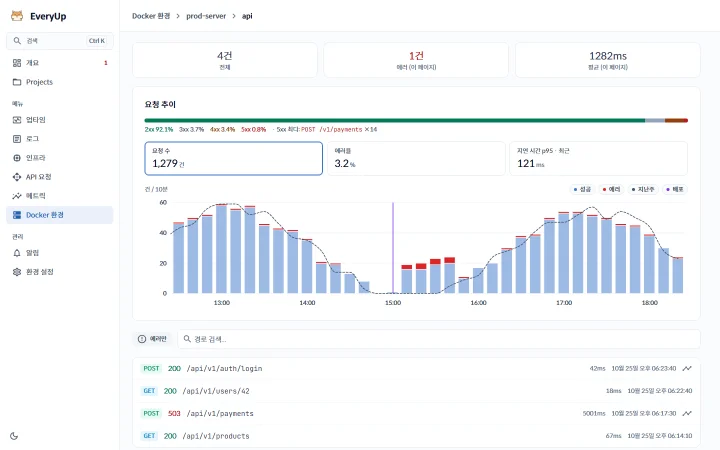
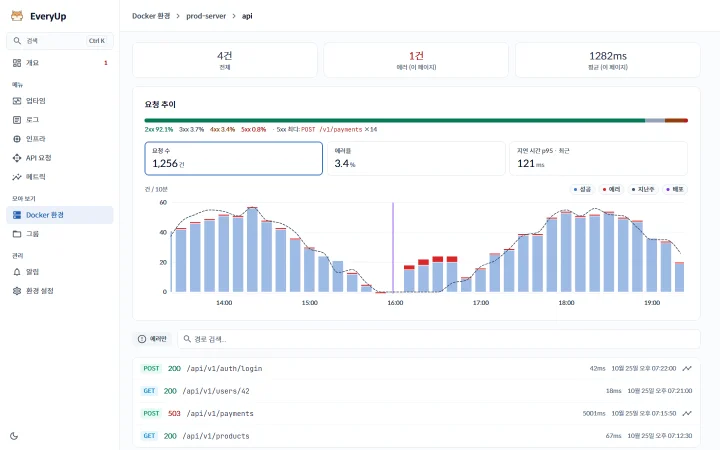
feat(web): Docker environments and groups get their own nav section
Projects is renamed to 그룹 (Group) in product language and moves with
Docker 환경 into a new 모아 보기 sidebar section after the capability
menus. Both look at several capabilities as one unit: a Docker
environment shows everything one Collector collects, a group collects
separately registered targets like a folder. Routes, API paths and
projectId stay as they are (ADR 0008).

UI strings, error messages, CONTEXT.md, Korean and English guides,
READMEs, e2e selectors and screenshots follow the new name.

diff --git a/web/frontend/src/pages/projects/ProjectsPage.tsx b/web/frontend/src/pages/projects/ProjectsPage.tsx
@@ -45,7 +45,7 @@ export function ProjectDialog({ project, onClose, onSave }: {
       className={`m-auto w-full max-w-md overflow-hidden rounded-xl border border-ui-border bg-bg-surface shadow-lg ${SCRIM_MODAL_DIALOG}`}
     >
       <form onSubmit={submit}>
-        <div className="border-b border-ui-border px-6 py-4"><h2 id="project-dialog-title" className="type-card-title text-text-base">{project ? 'Project 수정' : 'Project 추가'}</h2></div>
+        <div className="border-b border-ui-border px-6 py-4"><h2 id="project-dialog-title" className="type-card-title text-text-base">{project ? '그룹 수정' : '그룹 추가'}</h2></div>
         <div className="space-y-4 p-6">
           <label className="block space-y-1.5" htmlFor="project-name"><span className="type-label text-text-secondary">이름</span><Input id="project-name" required value={name} onChange={event => setName(event.target.value)} placeholder="예: Production" /></label>
           <label className="block space-y-1.5" htmlFor="project-description"><span className="type-label text-text-secondary">설명</span><Input id="project-description" value={description} onChange={event => setDescription(event.target.value)} placeholder="선택 사항" /></label>
@@ -92,7 +92,7 @@ function ProjectCard({ project, returnTo, agents, monitors, directServices, infr
     <article className="rounded-xl border border-ui-border bg-bg-surface p-4">
       <ResourceCardHeader
         title={<h2 className="truncate type-card-title text-text-base"><Link to={`/projects/${project.id}`} state={{ returnTo }} className="hover:text-action">{project.name}</Link></h2>}
-        status={<div className="flex gap-1"><IconButton icon="edit" label="Project 수정" size="sm" onClick={onEdit} /><IconButton icon="delete_outline" label="Project 삭제" size="sm" tone="danger" onClick={onDelete} /></div>}
+        status={<div className="flex gap-1"><IconButton icon="edit" label="그룹 수정" size="sm" onClick={onEdit} /><IconButton icon="delete_outline" label="그룹 삭제" size="sm" tone="danger" onClick={onDelete} /></div>}
       />
       <p className="mt-3 type-body text-text-muted">{project.description || '설명이 없습니다'}</p>
       <div className="mt-5 grid grid-cols-2 gap-3 lg:grid-cols-4">
@@ -168,16 +168,16 @@ export function ProjectsPage() {
   const renderProject = (project: Project) => <ProjectCard key={project.id} project={project} returnTo={returnTo} agents={agents.filter(agent => agent.projectId === project.id)} monitors={monitors.filter(monitor => monitor.projectId === project.id)} directServices={directServices.filter(service => service.projectId === project.id)} infrastructureResources={infrastructureResources.filter(resource => resource.projectId === project.id)} unassignedAgents={unassignedAgents} unassignedMonitors={unassignedMonitors} unassignedDirect={unassignedDirect} unassignedInfrastructure={unassignedInfrastructure} onEdit={() => setEditing(project)} onDelete={() => setDeleting(project)} onAssignAgent={id => void mutate(() => api.assignAgent(project.id, id))} onUnassignAgent={id => void mutate(() => api.unassignAgent(project.id, id))} onAssignMonitor={id => void mutate(() => api.assignMonitor(project.id, id))} onUnassignMonitor={id => void mutate(() => api.unassignMonitor(project.id, id))} onAssignDirect={id => void mutate(() => updateDirectProject(id, project.id))} onUnassignDirect={id => void mutate(() => updateDirectProject(id))} onAssignInfrastructure={id => void mutate(() => updateInfrastructureProject(id, project.id))} onUnassignInfrastructure={id => void mutate(() => updateInfrastructureProject(id))} />;
 
   return <div>
-    <PageHeader title="Projects" subtitle="같이 운영하는 Docker 환경, 업타임 모니터, 애플리케이션과 서버를 한곳에 묶어 상태를 확인합니다."><Button onClick={() => setEditing(null)}><MaterialIcon name="add" />추가</Button></PageHeader>
+    <PageHeader title="그룹" subtitle="같이 운영하는 Docker 환경, 업타임 모니터, 애플리케이션과 서버를 한곳에 묶어 상태를 확인합니다."><Button onClick={() => setEditing(null)}><MaterialIcon name="add" />추가</Button></PageHeader>
     <div className="mb-5 flex"><ListViewToggle view={view} onChange={setView} /></div>
-    {loading ? <div className="grid grid-cols-1 gap-4 md:grid-cols-2">{[0, 1].map(item => <div key={item} className="h-72 animate-pulse rounded-xl border border-ui-border bg-bg-surface" />)}</div> : error ? <EmptyState icon="error_outline" title="Project를 불러오지 못했습니다" description={error} action={{ label: '다시 시도', onClick: () => void load() }} /> : projects.length === 0 ? <EmptyState icon="folder_open" title="아직 Project가 없습니다" description="필요할 때 모니터링 대상을 묶어 보세요." action={{ label: '추가', onClick: () => setEditing(null) }} /> : view === 'grid' ? <ResourceTable rows={projects} rowKey={project => project.id} ariaLabel="Projects 그리드"
+    {loading ? <div className="grid grid-cols-1 gap-4 md:grid-cols-2">{[0, 1].map(item => <div key={item} className="h-72 animate-pulse rounded-xl border border-ui-border bg-bg-surface" />)}</div> : error ? <EmptyState icon="error_outline" title="그룹을 불러오지 못했습니다" description={error} action={{ label: '다시 시도', onClick: () => void load() }} /> : projects.length === 0 ? <EmptyState icon="folder_open" title="아직 그룹이 없습니다" description="필요할 때 모니터링 대상을 묶어 보세요." action={{ label: '추가', onClick: () => setEditing(null) }} /> : view === 'grid' ? <ResourceTable rows={projects} rowKey={project => project.id} ariaLabel="그룹 그리드"
       renderDetails={project => expandedProject === project.id ? renderProject(project) : null}
       columns={[
-        { key: 'name', label: 'Project', render: project => <><Link to={`/projects/${project.id}`} state={{ returnTo }} data-row-link className="block truncate font-medium text-action">{project.name}</Link><p className="mt-1 line-clamp-2 break-words type-caption text-text-muted">{project.description || '설명 없음'}</p><p className="mt-2 type-caption text-text-muted md:hidden">Docker {agents.filter(row => row.projectId === project.id).length} · 업타임 {monitors.filter(row => row.projectId === project.id).length} · 서비스 {directServices.filter(row => row.projectId === project.id).length} · Collector {infrastructureResources.filter(row => row.projectId === project.id).length}</p></> },
+        { key: 'name', label: '그룹', render: project => <><Link to={`/projects/${project.id}`} state={{ returnTo }} data-row-link className="block truncate font-medium text-action">{project.name}</Link><p className="mt-1 line-clamp-2 break-words type-caption text-text-muted">{project.description || '설명 없음'}</p><p className="mt-2 type-caption text-text-muted md:hidden">Docker {agents.filter(row => row.projectId === project.id).length} · 업타임 {monitors.filter(row => row.projectId === project.id).length} · 서비스 {directServices.filter(row => row.projectId === project.id).length} · Collector {infrastructureResources.filter(row => row.projectId === project.id).length}</p></> },
         ...([{ key: 'agents', label: 'Docker 환경', rows: agents }, { key: 'monitors', label: '업타임', rows: monitors }, { key: 'services', label: '직접 서비스', rows: directServices }, { key: 'infra', label: 'Collector', rows: infrastructureResources }]).map(({ key, label, rows }) => ({ key, label, className: 'hidden w-28 md:table-cell', align: 'right' as const, render: (project: Project) => rows.filter(row => row.projectId === project.id).length })),
         { key: 'actions', label: '작업', className: 'w-32', render: project => <Button variant="secondary" size="sm" className="min-h-11" aria-label={`${project.name} 구성 관리`} aria-expanded={expandedProject === project.id} onClick={() => setExpandedProject(expandedProject === project.id ? null : project.id)}>구성 관리</Button> },
       ]} /> : <div className="grid grid-cols-1 gap-4 md:grid-cols-2">{projects.map(renderProject)}</div>}
     {editing !== undefined && <ProjectDialog project={editing} onClose={() => setEditing(undefined)} onSave={saveProject} />}
-    <ConfirmDialog isOpen={Boolean(deleting)} onClose={() => setDeleting(null)} onConfirm={() => void deleteProject()} title="Project를 삭제할까요?" message="배정된 Docker 환경, 업타임 모니터, 직접 서비스와 Collector는 삭제되지 않고 미분류로 남습니다." confirmLabel="삭제" isProcessing={deletingProject} />
+    <ConfirmDialog isOpen={Boolean(deleting)} onClose={() => setDeleting(null)} onConfirm={() => void deleteProject()} title="그룹을 삭제할까요?" message="배정된 Docker 환경, 업타임 모니터, 직접 서비스와 Collector는 삭제되지 않고 미분류로 남습니다." confirmLabel="삭제" isProcessing={deletingProject} />
   </div>;
 }

diff --git a/web/frontend/src/pages/projects/ProjectOverviewPage.tsx b/web/frontend/src/pages/projects/ProjectOverviewPage.tsx
@@ -120,8 +120,8 @@ export function ProjectOverviewPage() {
   const totalTargets = data.agents.length + data.monitors.length + data.observedServices.length + data.infrastructure.length;
 
   if (loading) return <div className="h-64 animate-pulse rounded-xl border border-ui-border bg-bg-surface" />;
-  if (error) return <EmptyState icon="sync_problem" title="Project를 불러오지 못했습니다" description={error} action={{ label: '다시 시도', onClick: () => void load() }} />;
-  if (!data.project) return <EmptyState icon="folder_open" title="Project를 찾을 수 없습니다" action={{ label: 'Projects', to: '/projects' }} />;
+  if (error) return <EmptyState icon="sync_problem" title="그룹을 불러오지 못했습니다" description={error} action={{ label: '다시 시도', onClick: () => void load() }} />;
+  if (!data.project) return <EmptyState icon="folder_open" title="그룹을 찾을 수 없습니다" action={{ label: '그룹', to: '/projects' }} />;
 
   const project = data.project;
   const deleteProject = async () => {
@@ -161,11 +161,11 @@ export function ProjectOverviewPage() {
 
       {failedSources.length > 0 && <section className="flex flex-col gap-3 rounded-xl border border-ui-border bg-bg-surface p-4 sm:flex-row sm:items-center sm:justify-between" role="status"><div className="flex items-start gap-3"><MaterialIcon size={20} name="sync_problem" className="mt-0.5 text-status-warn" /><div><p className="type-label text-text-base">일부 모니터링 정보를 불러오지 못했습니다</p><p className="mt-0.5 type-body text-text-muted">{failedSources.join(', ')} 정보를 제외한 결과입니다.</p></div></div><Button variant="secondary" size="sm" onClick={() => void load()}>다시 시도</Button></section>}
 
-      {totalTargets === 0 ? <section className="rounded-xl border border-ui-border bg-bg-surface"><EmptyState icon="folder_open" title="아직 배정된 대상이 없습니다" description="Project 관리 화면에서 환경과 모니터링 대상을 배정하세요." action={{ label: 'Project 관리', to: '/projects' }} /></section> : (
+      {totalTargets === 0 ? <section className="rounded-xl border border-ui-border bg-bg-surface"><EmptyState icon="folder_open" title="아직 배정된 대상이 없습니다" description="그룹 관리 화면에서 환경과 모니터링 대상을 배정하세요." action={{ label: '그룹 관리', to: '/projects' }} /></section> : (
         <section>
           <div className="mb-3 flex flex-wrap items-center gap-3"><div><h2 className="type-card-title text-text-base">대상</h2><p className="mt-0.5 type-body text-text-muted">장애를 먼저, 수집 지연을 그다음에 보여줍니다.</p></div><ListViewToggle view={view} onChange={setView} /></div>
           {view === 'card' ? <div className="grid gap-4 md:grid-cols-2 xl:grid-cols-3">{members.map(({ key, ...member }) => <div key={key} className="overflow-hidden rounded-xl border border-ui-border bg-bg-surface"><MemberLink {...member} returnTo={returnTo} /></div>)}</div> :
-            <ResourceTable rows={members} rowKey={row => row.key} ariaLabel="Project 구성 그리드" columns={[
+            <ResourceTable rows={members} rowKey={row => row.key} ariaLabel="그룹 구성 그리드" columns={[
               { key: 'name', label: '대상', render: row => <><Link to={row.to} state={{ returnTo }} data-row-link className="block truncate font-medium text-action">{row.name}</Link><p className="mt-1 break-words type-caption text-text-muted md:hidden">{row.detail}</p></> },
               { key: 'detail', label: '현황', className: 'hidden md:table-cell', render: row => <span className="text-text-muted">{row.detail}</span> },
             ]} />}
@@ -173,7 +173,7 @@ export function ProjectOverviewPage() {
       )}
 
       {editing && <ProjectDialog project={project} onClose={() => setEditing(false)} onSave={async input => { await api.updateProject(project.id, input); await load(); }} />}
-      <ConfirmDialog isOpen={deleting} onClose={() => setDeleting(false)} onConfirm={() => void deleteProject()} title="Project를 삭제할까요?" message="배정된 Docker 환경, 업타임 모니터, 직접 서비스와 Collector는 삭제되지 않고 미분류로 남습니다." confirmLabel="삭제" isProcessing={deletingProject} />
+      <ConfirmDialog isOpen={deleting} onClose={() => setDeleting(false)} onConfirm={() => void deleteProject()} title="그룹을 삭제할까요?" message="배정된 Docker 환경, 업타임 모니터, 직접 서비스와 Collector는 삭제되지 않고 미분류로 남습니다." confirmLabel="삭제" isProcessing={deletingProject} />
     </div>
   );
 }

diff --git a/web/frontend/e2e/list-views.spec.ts b/web/frontend/e2e/list-views.spec.ts
@@ -1,7 +1,7 @@
 import { expect, test, type Locator } from '@playwright/test';
 
 const menus = [
-  ['projects', 'Projects', 'Projects 그리드'],
+  ['projects', '그룹', '그룹 그리드'],
   ['environments', 'Docker 환경', 'Docker 환경 그리드'],
   ['logs', '로그', '로그 서비스 그리드'],
   ['infrastructure', '인프라', '인프라 대상 그리드'],
@@ -11,7 +11,7 @@ const menus = [
   ['alerts?tab=rules', '알림', '알림 규칙 그리드'],
   ['alerts?tab=history', '알림', '알림 로그 그리드'],
   ['agents/agent_demo_01', 'prod-server', 'Docker 서비스 그리드'],
-  ['projects/project_mock_production', 'Production', 'Project 구성 그리드'],
+  ['projects/project_mock_production', 'Production', '그룹 구성 그리드'],
 ] as const;
 
 const hrefs = (scope: Locator) => scope.getByRole('link').evaluateAll(elements => [...new Set(elements.map(element => element.getAttribute('href') ?? ''))]);
@@ -75,18 +75,18 @@ test('Docker search and connect cleanup retain the chosen view and pending actio
   await expect(page.getByRole('table', { name: 'Docker 환경 그리드' })).toContainText('staging-api');
 });
 
-test('Project grid exposes editing, membership controls and deletion without changing views', async ({ page }) => {
+test('Group grid exposes editing, membership controls and deletion without changing views', async ({ page }) => {
   await page.goto('./projects');
   await page.getByRole('button', { name: 'Production 구성 관리', exact: true }).click();
   const card = page.getByRole('article').filter({ has: page.getByRole('heading', { name: 'Production', exact: true }) });
   await expect(card.getByRole('button', { name: 'Docker 환경 해제', exact: true }).first()).toBeVisible();
-  await card.getByRole('button', { name: 'Project 수정', exact: true }).click();
-  await expect(page.getByRole('dialog', { name: 'Project 수정', exact: true })).toBeVisible();
+  await card.getByRole('button', { name: '그룹 수정', exact: true }).click();
+  await expect(page.getByRole('dialog', { name: '그룹 수정', exact: true })).toBeVisible();
   await page.getByRole('dialog').getByRole('button', { name: '취소', exact: true }).click();
-  await card.getByRole('button', { name: 'Project 삭제', exact: true }).click();
-  await expect(page.getByRole('dialog', { name: 'Project를 삭제할까요?', exact: true })).toBeVisible();
+  await card.getByRole('button', { name: '그룹 삭제', exact: true }).click();
+  await expect(page.getByRole('dialog', { name: '그룹을 삭제할까요?', exact: true })).toBeVisible();
   await page.getByRole('dialog').getByRole('button', { name: '취소', exact: true }).click();
-  await expect(page.getByRole('table', { name: 'Projects 그리드', exact: true })).toBeVisible();
+  await expect(page.getByRole('table', { name: '그룹 그리드', exact: true })).toBeVisible();
 });
 
 test('alert target and local search stay intact while switching views', async ({ page }) => {

diff --git a/web/frontend/src/components/layout/navSections.ts b/web/frontend/src/components/layout/navSections.ts
@@ -14,7 +14,7 @@ export interface NavTarget {
 
 export interface NavSection extends NavTarget {
   /** 사이드바 그룹 헤더. 없으면 맨 위 그룹 */
-  group?: '메뉴' | '관리';
+  group?: '메뉴' | '모아 보기' | '관리';
   /** 사이드바가 없는 폭(`lg` 미만)에서 들어가는 곳 — 하단 내비 또는 더보기 */
   mobile: 'bottom' | 'more';
   /** 더보기 카드 설명 */
@@ -25,14 +25,15 @@ export interface NavSection extends NavTarget {
 
 export const NAV_SECTIONS: NavSection[] = [
   { to: '/', label: '개요', icon: 'dashboard', mobile: 'bottom' },
-  { to: '/projects', label: 'Projects', icon: 'folder_open', mobile: 'bottom' },
   { to: '/uptime', label: '업타임', icon: 'monitor_heart', group: '메뉴', mobile: 'more', description: '서비스 응답과 장애 대상을 확인합니다.' },
   { to: '/logs', label: '로그', icon: 'article', group: '메뉴', mobile: 'more', description: '서비스별 오류·경고를 보고 로그를 검색합니다.' },
   { to: '/infrastructure', label: '인프라', icon: 'memory', group: '메뉴', mobile: 'more', description: '서버의 CPU, 메모리, 디스크 상태를 확인합니다.' },
   { to: '/api', label: 'API 요청', icon: 'api', group: '메뉴', mobile: 'more', description: '요청 상태와 오류를 확인합니다.' },
   { to: '/metrics', label: '메트릭', icon: 'monitoring', group: '메뉴', mobile: 'more', description: 'OpenTelemetry 메트릭을 확인합니다.' },
-  // Capability Menu 뒤 — 메뉴는 직접 설정한 대상만, Docker 데이터는 이 화면에서만 본다(ADR 0007).
-  { to: '/environments', label: 'Docker 환경', icon: 'dns', group: '메뉴', mobile: 'more', aliases: ['/agents', '/services'], description: 'Collector 연결과 발견된 서비스를 관리합니다.' },
+  // 모아 보기 — 기능별 메뉴와 달리 여러 기능을 한 단위로 본다. Docker 환경은 한 서버의 수집 전체를,
+  // 그룹은 따로 등록한 대상을 묶은 것을 보여 준다(ADR 0007·0008).
+  { to: '/environments', label: 'Docker 환경', icon: 'dns', group: '모아 보기', mobile: 'more', aliases: ['/agents', '/services'], description: 'Collector 연결과 발견된 서비스를 관리합니다.' },
+  { to: '/projects', label: '그룹', icon: 'folder_open', group: '모아 보기', mobile: 'bottom' },
   { to: '/alerts', label: '알림', icon: 'notifications', group: '관리', mobile: 'bottom' },
   { to: '/settings', label: '환경 설정', icon: 'settings', group: '관리', mobile: 'more', description: 'EveryUp 환경을 설정합니다.' },
 ];

diff --git a/web/frontend/e2e/grid-navigation.spec.ts b/web/frontend/e2e/grid-navigation.spec.ts
@@ -1,7 +1,7 @@
 import { expect, test, type Locator } from '@playwright/test';
 
 const menus = [
-  ['projects', 'Projects 그리드'],
+  ['projects', '그룹 그리드'],
   ['environments', 'Docker 환경 그리드'],
   ['uptime', '업타임 그리드'],
   ['logs', '로그 서비스 그리드'],
@@ -9,7 +9,7 @@ const menus = [
   ['api', 'API 대상 그리드'],
   ['metrics', '메트릭 서비스 그리드'],
   ['agents/agent_demo_01', 'Docker 서비스 그리드'],
-  ['projects/project_mock_production', 'Project 구성 그리드'],
+  ['projects/project_mock_production', '그룹 구성 그리드'],
 ] as const;
 
 async function blankCorner(row: Locator) {
@@ -45,7 +45,7 @@ for (const mode of ['modifier', 'middle'] as const) {
   test(`${mode} click on row whitespace opens the actual detail in a new tab`, async ({ page }) => {
     await page.goto('./projects');
     const listUrl = page.url();
-    const table = page.getByRole('table', { name: 'Projects 그리드', exact: true });
+    const table = page.getByRole('table', { name: '그룹 그리드', exact: true });
     const row = table.getByRole('row').filter({ has: page.getByRole('link') }).first();
     const link = row.getByRole('link').first();
     const destination = new URL((await link.getAttribute('href'))!, listUrl).href;

diff --git a/web/frontend/src/features/telemetry/components/DirectConnectionMeta.tsx b/web/frontend/src/features/telemetry/components/DirectConnectionMeta.tsx
@@ -1,7 +1,7 @@
 import { Button, DetailMeta, MaterialIcon, Select, StatusLight } from '../../../components/common';
 import type { Project } from '../../../services/api';
 
-// 직접 연결(Logs·Metrics·API·Collector) 상세의 연결 메타데이터. 수집 키·마지막 수집·Project는
+// 직접 연결(Logs·Metrics·API·Collector) 상세의 연결 메타데이터. 수집 키·마지막 수집·그룹은
 // 대상의 속성이지 본문이 아니라서 카드가 아니라 제목 아래 DetailMeta로 둔다.
 interface DirectConnectionMetaProps {
   isActive: boolean;
@@ -56,10 +56,10 @@ export function DirectConnectionMeta({
           ),
         },
         {
-          label: 'Project',
+          label: '그룹',
           value: (
             <>
-              <Select wrapperClassName="w-48" value={projectId} onChange={event => onProjectChange(event.target.value)} aria-label="Project 배정">
+              <Select wrapperClassName="w-48" value={projectId} onChange={event => onProjectChange(event.target.value)} aria-label="그룹 배정">
                 <option value="">미분류</option>
                 {projects.map(project => <option key={project.id} value={project.id}>{project.name}</option>)}
               </Select>

diff --git a/web/frontend/src/utils/errors.ts b/web/frontend/src/utils/errors.ts
@@ -28,10 +28,10 @@ const ERROR_MESSAGES: Record<string, string> = {
   ALREADY_SETUP: '이미 초기 설정이 완료되었습니다.',
   HOST_NOT_FOUND: '호스트를 찾을 수 없습니다.',
   SERVICE_NOT_FOUND: '서비스를 찾을 수 없습니다.',
-  PROJECT_NOT_FOUND: 'Project를 찾을 수 없습니다.',
+  PROJECT_NOT_FOUND: '그룹을 찾을 수 없습니다.',
   OBSERVED_SERVICE_NOT_FOUND: 'Observed Service를 찾을 수 없습니다.',
   INFRASTRUCTURE_RESOURCE_NOT_FOUND: '인프라 리소스를 찾을 수 없습니다.',
-  INFRASTRUCTURE_PROJECT_NOT_FOUND: '인프라 리소스에 배정할 Project를 찾을 수 없습니다.',
+  INFRASTRUCTURE_PROJECT_NOT_FOUND: '인프라 리소스에 배정할 그룹을 찾을 수 없습니다.',
   HOST_EXISTS: '이미 존재하는 호스트 ID입니다.',
   SERVICE_EXISTS: '이미 존재하는 서비스 ID입니다.',
   SSRF_BLOCKED: '보안상 허용되지 않는 주소입니다.',

diff --git a/web/frontend/src/features/telemetry/components/DirectTelemetrySetupDialog.tsx b/web/frontend/src/features/telemetry/components/DirectTelemetrySetupDialog.tsx
@@ -144,7 +144,7 @@ export function DirectTelemetrySetupDialog({
                 <span className="block type-body text-text-muted">수신 payload의 service.name 대신 이 이름으로 고정합니다.</span>
               </label>
               <label className="block space-y-1.5" htmlFor={`direct-${signal}-project`}>
-                <span className="text-sm font-medium text-text-secondary">Project</span>
+                <span className="text-sm font-medium text-text-secondary">그룹</span>
                 <Select id={`direct-${signal}-project`} value={projectId} onChange={event => setProjectId(event.target.value)}>
                   <option value="">미분류</option>
                   {projects.map(project => <option key={project.id} value={project.id}>{project.name}</option>)}

diff --git a/web/frontend/src/features/infrastructure/components/InfrastructureCollectorSetupDialog.tsx b/web/frontend/src/features/infrastructure/components/InfrastructureCollectorSetupDialog.tsx
@@ -65,7 +65,7 @@ export function InfrastructureCollectorSetupDialog({
             <Input id="collector-resource-name" required maxLength={200} value={name} onChange={event => setName(event.target.value)} placeholder="edge-host-01" />
           </label>
           <label className="block space-y-1.5" htmlFor="collector-project">
-            <span className="text-sm font-medium text-text-secondary">Project</span>
+            <span className="text-sm font-medium text-text-secondary">그룹</span>
             <Select id="collector-project" value={projectId} onChange={event => setProjectId(event.target.value)}>
               <option value="">미분류</option>
               {projects.map(project => <option key={project.id} value={project.id}>{project.name}</option>)}

diff --git a/web/frontend/src/components/common/SummaryCard.tsx b/web/frontend/src/components/common/SummaryCard.tsx
@@ -9,7 +9,7 @@ export function SummaryCard({ label, value, detail, tone = 'idle' }: {
   // warn/error 하나만 튄다 (§5.1 StatusLight와 같은 논리).
   //
   // 이 규칙이 기존 오용 두 건도 같이 걷어낸다: 업타임 '정상' 카드의 `전체 5개 대상 중`
-  // (분모)과 개요 'Projects' 카드의 `대상을 운영 단위로 묶고 있습니다`(설명)가
+  // (분모)과 개요 '그룹' 카드의 `대상을 운영 단위로 묶고 있습니다`(설명)가
   // tone=healthy를 타고 초록으로 칠해지고 있었다. 둘 다 상태가 아니다.
   const detailClass = tone === 'warn' ? 'text-status-warn'
     : tone === 'error' ? 'text-status-error'

diff --git a/web/frontend/e2e/demo.spec.ts b/web/frontend/e2e/demo.spec.ts
@@ -72,7 +72,7 @@ test.describe('live demo', () => {
 
     await expect(page.getByRole('combobox', { name: '데모 시나리오' })).toBeVisible();
     await expect(page.getByRole('link', { name: '개요', exact: true })).toBeVisible();
-    await expect(page.getByRole('link', { name: 'Projects', exact: true })).toBeVisible();
+    await expect(page.getByRole('link', { name: '그룹', exact: true })).toBeVisible();
     await expect(page.getByRole('link', { name: '알림', exact: true })).toBeVisible();
     await page.getByRole('link', { name: '더보기', exact: true }).click();
     await expect(page.getByRole('heading', { level: 1, name: '더보기' })).toBeVisible();

diff --git a/web/frontend/e2e/overview-focus.spec.ts b/web/frontend/e2e/overview-focus.spec.ts
@@ -22,7 +22,7 @@ for (const { width, height, reducedMotion } of [
     await page.emulateMedia({ reducedMotion });
     await page.goto('./');
     const refresh = page.getByRole('button', { name: '새로고침', exact: true });
-    const project = page.getByRole('link', { name: /Project로 대상 정리하기/ });
+    const project = page.getByRole('link', { name: /그룹으로 대상 정리하기/ });
     const lastIncident = page.getByRole('region', { name: '최근 장애 이력' }).getByRole('link').last();
     await expect(lastIncident).toBeVisible();
     await page.evaluate(() => document.fonts.ready);
